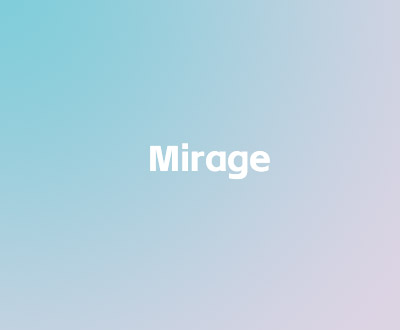
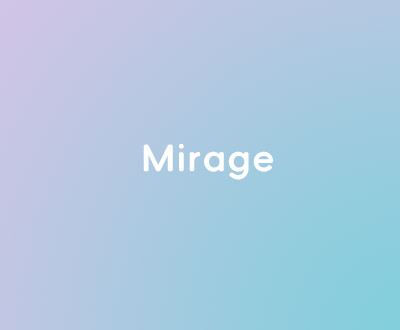
修改主题缩略图

diff --git a/style.css b/style.css
@@ -1,7 +1,7 @@
 /*
 Theme Name: Mirage
 Text Domain: mirage
-Version: 2.33.0
+Version: 2.33.1
 Requires at least: 6.1
 Requires PHP: 7.3
 Description: 一个 WordPress 主题。

diff --git a/CHANGES.md b/CHANGES.md
@@ -6,6 +6,10 @@
 - 新增文章详情页的“相关推荐”
 - 解决图文小工具，不填入分类，分页无效的问题
 
+
+### v2.33.1
+- fix 修改主题缩略图
+
 ### v2.33.0
 - feat 新增首页板块可以调节顺序
 - feat 优化 container.css 通用布局
